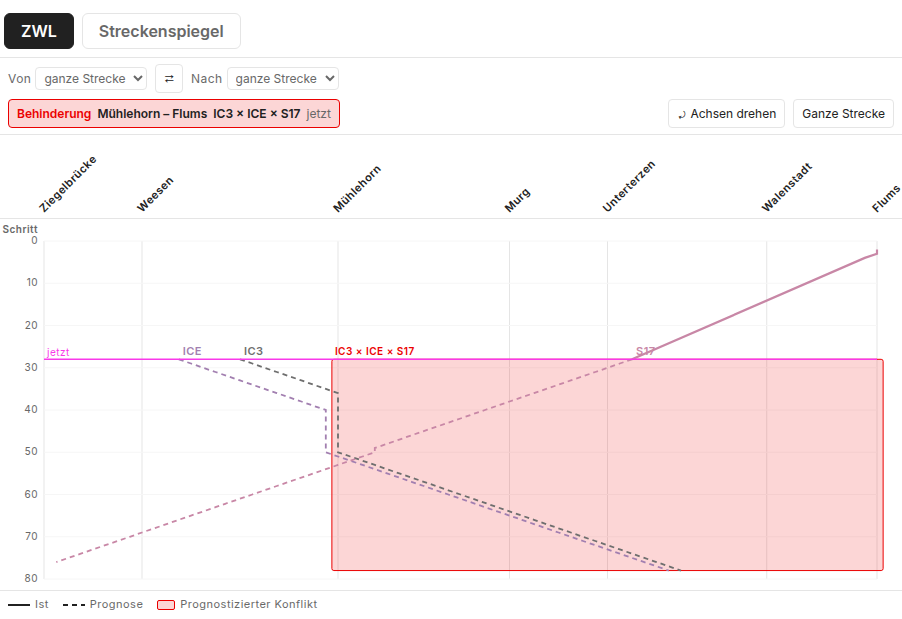
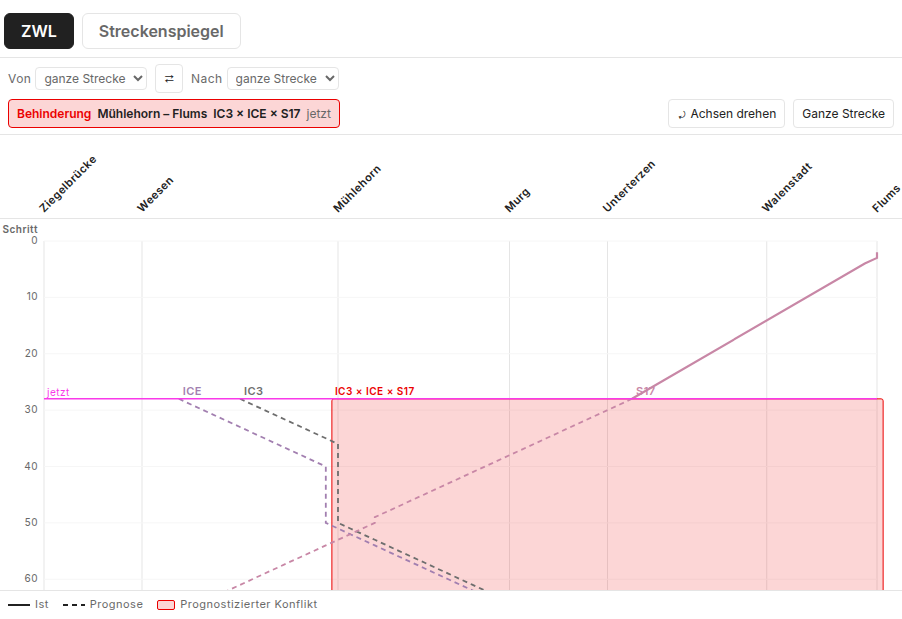
fix(zwl): a fixed time scale that scrolls, instead of fitting the panel.
Fitting the whole time range into the taller Plan B area squashed and
stretched the ZWL whenever the forecast changed. The visible plot now
always shows 60 steps; the rest scrolls, without the jump back to now.

diff --git a/frontend/src/app/features/zwl/zwl.component.ts b/frontend/src/app/features/zwl/zwl.component.ts
@@ -27,9 +27,14 @@ interface Gutters { left: number; right: number; top: number; bottom: number }
 // top: room for the time unit above the axis (docs/plans/plan-b-small-changes.md, item 8).
 const GUTTERS_TIME_VERTICAL: Gutters = { left: 44, right: 24, top: 22, bottom: 10 };
 const HEADER_H = 84;
-/** With time vertical the plot keeps at least this much time axis and scrolls
- *  rather than squeezing 100 steps into a short panel. */
-const MIN_TIME_AXIS_PX = 300;
+/** With time vertical the time axis has a fixed scale: the visible part of the
+ *  plot shows this many steps, whatever the forecast's length, and the rest
+ *  scrolls. Fitting the whole range into the panel instead squashed and
+ *  stretched the diagram whenever the forecast changed
+ *  (docs/plans/plan-b-small-changes.md, item 1). */
+const STEPS_IN_VIEW = 60;
+/** Below this the panel is too short to show STEPS_IN_VIEW steps legibly. */
+const MIN_TIME_VIEW_PX = 240;
 /** Time across, places down (classic Marey): names on the left, minutes below. */
 const GUTTERS_TIME_HORIZONTAL: Gutters = { left: 150, right: 16, top: 12, bottom: 26 };
 /** Station names above the plot are slanted so neighbours don't collide. */
@@ -527,15 +532,25 @@ export class ZwlComponent implements AfterViewInit, OnDestroy {
   readonly plotX0 = computed(() => this.gutter().left);
   readonly plotY0 = computed(() => this.gutter().top);
   readonly plotW = computed(() => Math.max(10, this.width() - this.gutter().left - this.gutter().right));
-  /** SVG height: the panel's, or taller when time runs vertically and the
-   *  panel is short — the plot area then scrolls. */
+  /** Time vertical: the time axis's length at the fixed scale, STEPS_IN_VIEW
+   *  steps per visible plot height. */
+  readonly timeAxisPx = computed(() => {
+    const g = this.gutter();
+    const view = Math.max(MIN_TIME_VIEW_PX, this.height() - HEADER_H - g.top - g.bottom);
+    const [a, b] = this.stepDomain();
+    return Math.max(10, Math.round((view / STEPS_IN_VIEW) * Math.max(1, b - a)));
+  });
+  /** SVG height: the panel's; with time vertical as long as the time axis
+   *  needs at its fixed scale, so the plot scrolls instead of squashing. */
   readonly svgH = computed(() => {
     const g = this.gutter();
     return this.timeVertical()
-      ? Math.max(this.height() - HEADER_H, g.top + g.bottom + MIN_TIME_AXIS_PX)
+      ? Math.max(this.height() - HEADER_H, g.top + g.bottom + this.timeAxisPx())
       : this.height();
   });
-  readonly plotH = computed(() => Math.max(10, this.svgH() - this.gutter().top - this.gutter().bottom));
+  readonly plotH = computed(() => (this.timeVertical()
+    ? this.timeAxisPx()
+    : Math.max(10, this.svgH() - this.gutter().top - this.gutter().bottom)));
 
   /** Pixel position along the time axis (down, or right). */
   private timePos(step: number): number {

diff --git a/frontend/src/app/core/layout/layout-presets.ts b/frontend/src/app/core/layout/layout-presets.ts
@@ -763,10 +763,9 @@ const PLAN_B: LayoutPreset = {
             collapsible: false,
             minHeight: 520,
             // #168: the ZWL first and open, the tabs big enough to stand in
-            // for the title that PLAN_B_UI hides. The body is tall enough for
-            // the whole ZWL (station header, minimum time axis, route row and
-            // legend), so it never scrolls inside (docs/plans/plan-b-small-changes.md,
-            // item 1).
+            // for the title that PLAN_B_UI hides. The body is taller than
+            // the default, so the ZWL shows more of its fixed-scale time axis
+            // before it scrolls (docs/plans/plan-b-small-changes.md, item 1).
             settings: {
               tabs: ['zug-weg-diagramm', 'flatland-map'],
               defaultTab: 'zug-weg-diagramm',

diff --git a/docs/plans/plan-b-small-changes.md b/docs/plans/plan-b-small-changes.md
@@ -20,13 +20,15 @@ marked **(decided)**; defaults this plan chose on its own are marked
   about 0 as soon as the now-line is outside the visible band, which is
   exactly the case after the user scrolled away. That is the jump.
 - **Change:**
-  - Plan B gives the tab area the free height of the screen: a
-    `minBodyHeight` and `max-height` for `preset-pb-views` that fill the
-    viewport beside the right column, so the ZWL fits without scrolling on
-    a normal laptop screen (1080 px high) **(default)**.
-  - `followNow` only follows the now-line while the user hasn't scrolled by
-    hand, and never moves the view on a mere re-render. With the taller
-    area this mostly never triggers, but it stops the jump on small screens.
+  - Plan B's tab area is taller (`minBodyHeight` 560 instead of 340).
+  - The time axis has a fixed scale: the visible plot shows 60 steps
+    (`STEPS_IN_VIEW`), and the rest scrolls. **(changed after testing)** A
+    first version fitted the whole time range into the taller area, so the
+    ZWL never scrolled; but then it squashed and stretched whenever the
+    forecast grew or shrank. The scroll bar is what kept the scale steady.
+  - `followNow` only follows the now-line while the user hasn't scrolled it
+    out of view; once they have, the view stays where they put it until they
+    scroll the now-line back into view. That ends the jump.
 
 ### 2. Zoom back in the Streckenspiegel, opacity slider gone
 
